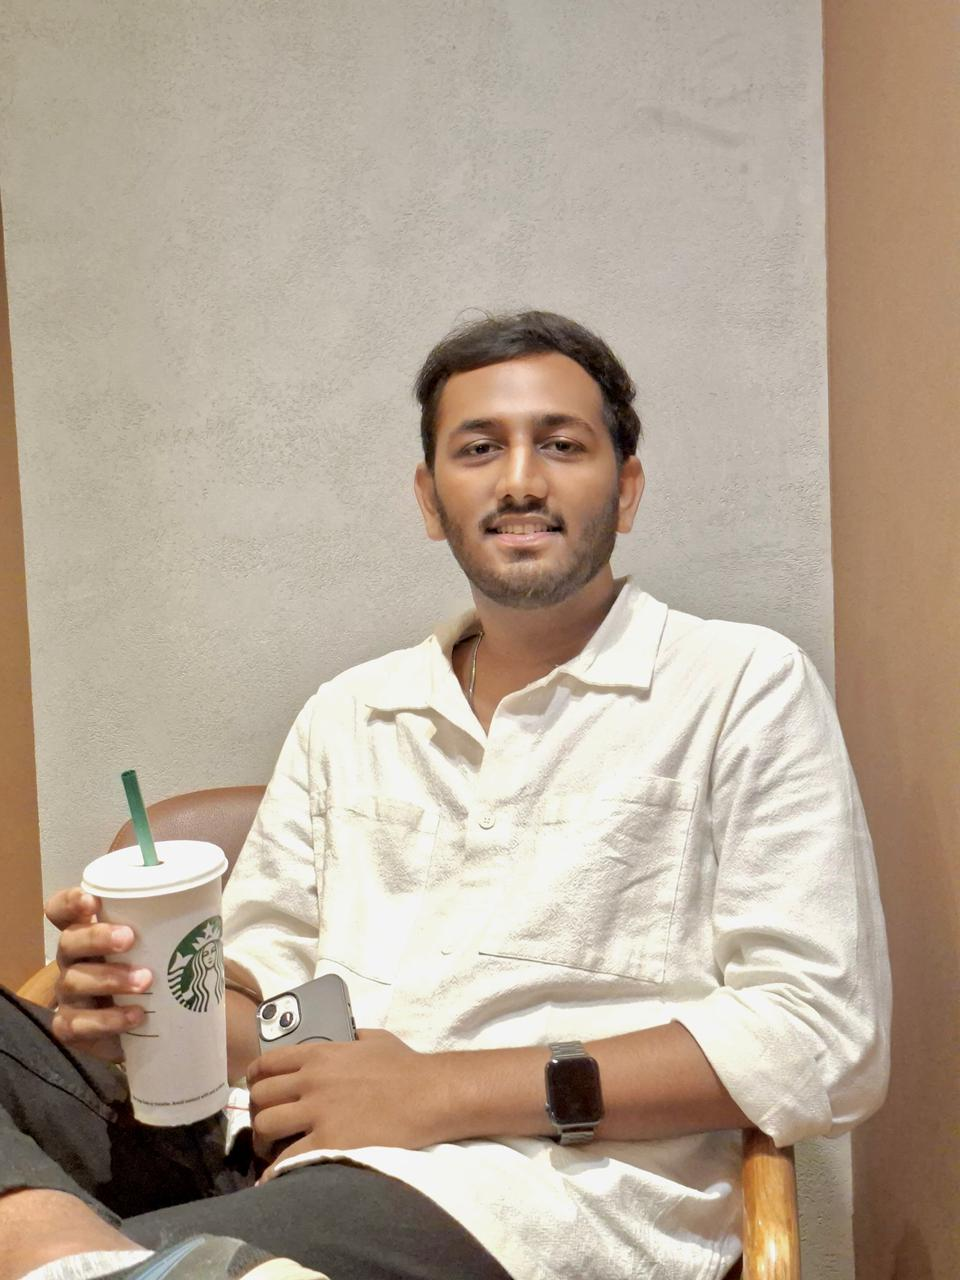
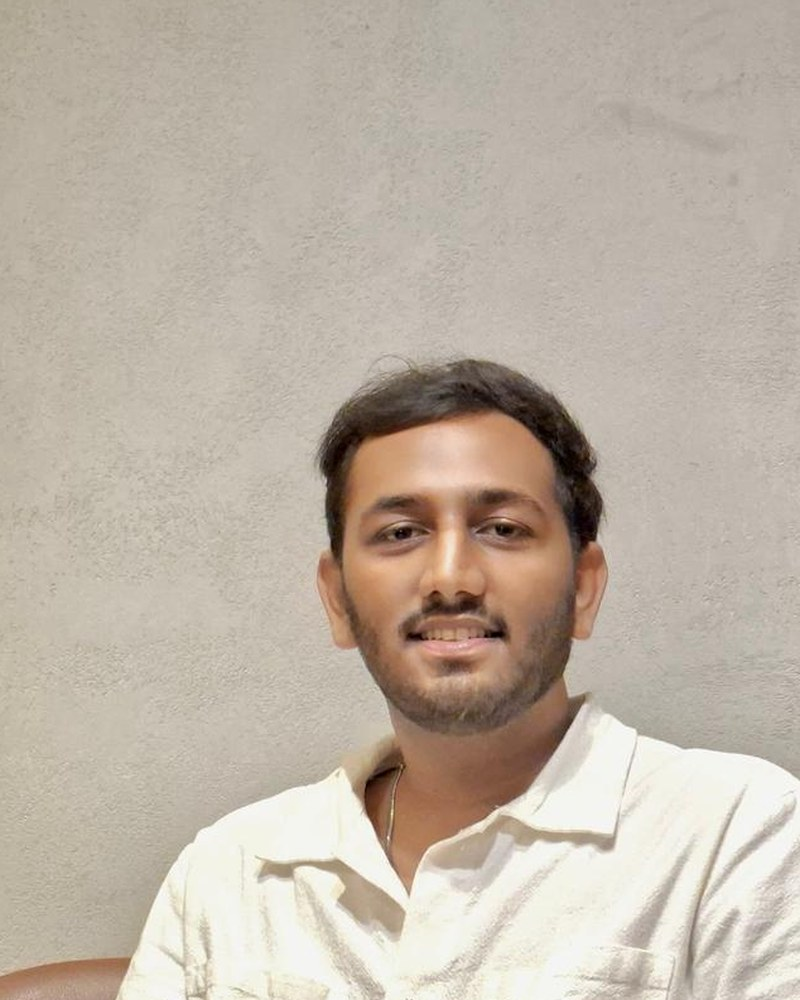
fix: restore framer-motion and refresh portfolio assets
- Switch to framer-motion (remove motion) and force animations even with reduced-motion
- Update GitHub calendar palette, replace internship with projects entry, and crop profile photo
- Remove unused assets and dead import

diff --git a/app/utils/lazy-ui.tsx b/app/utils/lazy-ui.tsx
@@ -1,25 +1,27 @@
 "use client"
 
-import * as motion from "motion/react-m"
-import { LazyMotion, domAnimation } from "motion/react"
+import type { ReactNode } from "react"
+import { LazyMotion, MotionConfig, domAnimation, m } from "framer-motion"
 
-export const MotionWrapper = ({ children }: { children: React.ReactNode }) => {
+export const MotionWrapper = ({ children }: { children: ReactNode }) => {
   return (
-    <LazyMotion strict features={domAnimation}>
-      {children}
-    </LazyMotion>
+    <MotionConfig reducedMotion="never">
+      <LazyMotion strict features={domAnimation}>
+        {children}
+      </LazyMotion>
+    </MotionConfig>
   )
 }
 
-export const MotionDiv = motion.div
-export const MotionSpan = motion.span
-export const MotionH2 = motion.h2
-export const MotionArticle = motion.article
-export const MotionLi = motion.li
-export const MotionUl = motion.ul
-export const MotionCircle = motion.circle
-export const MotionSvg = motion.svg
-export const MotionPath = motion.path
-export const MotionH1 = motion.h1
-export const MotionP = motion.p
-export const MotionButton = motion.button
+export const MotionDiv = m.div
+export const MotionSpan = m.span
+export const MotionH2 = m.h2
+export const MotionArticle = m.article
+export const MotionLi = m.li
+export const MotionUl = m.ul
+export const MotionCircle = m.circle
+export const MotionSvg = m.svg
+export const MotionPath = m.path
+export const MotionH1 = m.h1
+export const MotionP = m.p
+export const MotionButton = m.button

diff --git a/app/components/DotCursor.tsx b/app/components/DotCursor.tsx
@@ -1,7 +1,7 @@
 // app/_components/DotCursor.tsx
 "use client"
 import { useEffect, useRef } from "react"
-import { frame, useSpring } from "motion/react"
+import { useSpring } from "framer-motion"
 import { MotionDiv, MotionSpan } from "../utils/lazy-ui"
 
 const BASE_W = 20
@@ -25,10 +25,8 @@ export function DotCursor() {
   useEffect(() => {
     const onMove = (ev: PointerEvent) => {
       const { clientX, clientY } = ev
-      frame.read(() => {
-        x.set(clientX)
-        y.set(clientY)
-      })
+      x.set(clientX)
+      y.set(clientY)
 
       const el = (ev.target as Element | null)?.closest?.<HTMLElement>("[data-text]") ?? null
       if (el === lastTargetRef.current) return
@@ -39,11 +37,9 @@ export function DotCursor() {
 
       if (!el || !text) {
         if (span) span.textContent = ""
-        frame.read(() => {
-          w.set(BASE_W)
-          h.set(BASE_H)
-          labelOpacity.set(0)
-        })
+        w.set(BASE_W)
+        h.set(BASE_H)
+        labelOpacity.set(0)
         return
       }
 
@@ -54,23 +50,19 @@ export function DotCursor() {
         const textW = Math.ceil(span.scrollWidth)
         const targetW = Math.min(Math.max(BASE_W, textW + PAD_X * 2), MAX_W)
 
-        frame.read(() => {
-          w.set(targetW)
-          h.set(HOVER_H)
-        })
+        w.set(targetW)
+        h.set(HOVER_H)
         // fade text after width begins expanding
-        frame.update(() => labelOpacity.set(1))
+        labelOpacity.set(1)
       }
     }
 
     const onLeaveWindow = () => {
       lastTargetRef.current = null
       if (labelRef.current) labelRef.current.textContent = ""
-      frame.read(() => {
-        w.set(BASE_W)
-        h.set(BASE_H)
-        labelOpacity.set(0)
-      })
+      w.set(BASE_W)
+      h.set(BASE_H)
+      labelOpacity.set(0)
     }
 
     window.addEventListener("pointermove", onMove, { passive: true })

diff --git a/app/components/EducationSection.tsx b/app/components/EducationSection.tsx
@@ -1,7 +1,7 @@
 "use client"
 
 import { MotionDiv } from "../utils/lazy-ui"
-import type { Variants } from "motion"
+import type { Variants } from "framer-motion"
 import { SectionHeader } from "./SectionHeader"
 import { AnimatedH2 } from "./ui/AnimatedH2"
 
@@ -31,16 +31,17 @@ const timelineData: TimelineItem[] = [
     ),
   },
   {
-    date: "09/2025 — 11/2025",
-    title: "UI/UX Design Internship",
-    institution: "Gradscaler Technologies Pvt. Ltd.",
+    date: "2025 — Present",
+    title: "Open-Source & Personal Projects",
+    institution: "GitHub · Build in public",
     description:
-      "Designed responsive dashboard interfaces, created AWS-related page layouts, and collaborated with dev teams to refine user experiences based on feasibility and feedback.",
+      "Building real projects end-to-end, improving code quality through iteration, and sharing work publicly. Focusing on clean UI, performance, accessibility, and maintainable architecture.",
     type: "certification",
     icon: (
       <svg viewBox="0 0 24 24" fill="none" stroke="currentColor" strokeWidth={1.5} className="h-5 w-5">
-        <rect x="2" y="3" width="20" height="14" rx="2" />
-        <path d="M8 21h8m-4-4v4" />
+        <path d="M16 18 22 12 16 6" />
+        <path d="M8 6 2 12l6 6" />
+        <path d="M14 4 10 20" />
       </svg>
     ),
   },

diff --git a/app/components/ui/CallToActionButton.tsx b/app/components/ui/CallToActionButton.tsx
@@ -1,7 +1,7 @@
 import Image from "next/image"
 import profilePhoto from "@/public/profile.jpeg"
 import clsx from "clsx"
-import type { Variants } from "motion"
+import type { Variants } from "framer-motion"
 import { MotionButton, MotionDiv } from "@/app/utils/lazy-ui"
 import { SITE_NAP } from "@/config/siteConfig"
 import { Icon } from "../Icon"
@@ -68,7 +68,10 @@ export const CallToActionButton = () => {
         variants={buttonVariants}
         className="group bubble-hover-cta active relative z-1 inline-flex w-max items-center gap-2 rounded-full bg-stone-900 px-3 py-2.5 text-base font-medium tracking-tight text-white shadow-md shadow-stone-900/10"
       >
-        <div className="pointer-events-none absolute inset-0.5 -z-1 rounded-full [background-image:url('/assets/framer-noise.png')] [background-size:164px] bg-repeat opacity-8" />
+        <div
+          className="pointer-events-none absolute inset-0.5 -z-1 rounded-full bg-repeat opacity-8 [background-image:radial-gradient(rgba(255,255,255,0.18)_1px,transparent_1px)] [background-size:4px_4px]"
+          aria-hidden="true"
+        />
         <div className="relative flex items-center gap-1">
           {/* Avatar */}
           <div className="relative h-7 w-7 rounded-full">

diff --git a/app/layout.tsx b/app/layout.tsx
@@ -97,7 +97,10 @@ const RootLayout = ({ children }: { children: React.ReactNode }) => {
           <DesktopCursor />
           <ViewTransitions />
           <LazySplashCursor />
-          <div className="custom:mx-auto xxs:mx-3.5 pointer-events-none absolute inset-0 z-1 max-w-6xl [background-image:url('/assets/framer-noise.png')] [background-size:128px] bg-repeat opacity-3 md:mx-5 lg:mx-8" />
+          <div
+            className="custom:mx-auto xxs:mx-3.5 pointer-events-none absolute inset-0 z-1 max-w-6xl bg-repeat opacity-3 md:mx-5 lg:mx-8 [background-image:radial-gradient(rgba(0,0,0,0.35)_1px,transparent_1px)] [background-size:4px_4px]"
+            aria-hidden="true"
+          />
           <div className={`${switzer.variable} font-switzer subpixel-antialiased`}>
             <div className="custom:mx-auto xxs:border-x pointer-events-none absolute inset-0 z-0 mx-3.5 max-w-6xl border-black/15 md:mx-5 lg:mx-8" />
             <BottomBlurOverlay />

diff --git a/app/components/CodingProfile/GitHubStats.tsx b/app/components/CodingProfile/GitHubStats.tsx
@@ -166,9 +166,9 @@ export const GitHubStats = () => {
                                 fontSize={12}
                                 blockSize={12}
                                 blockMargin={4}
-                                style={{ color: "#5c4633" }}
                                 theme={{
-                                    light: ["#f5ebe0", "#e8d5c0", "#d4b896", "#b08968", "#7c5e43"],
+                                    // GitHub's official light palette (keeps it familiar/recognizable)
+                                    light: ["#ebedf0", "#9be9a8", "#40c463", "#30a14e", "#216e39"],
                                     dark: ["#161b22", "#0e4429", "#006d32", "#26a641", "#39d353"],
                                 }}
                             />

diff --git a/app/ui/BeforeAfterSlider.tsx b/app/ui/BeforeAfterSlider.tsx
@@ -1,7 +1,7 @@
 "use client"
 import { useRef, useCallback, memo, useState, useEffect } from "react"
 import { MotionDiv } from "@/app/utils/lazy-ui"
-import { useMotionValue, useSpring, useTransform, useInView } from "motion/react"
+import { useMotionValue, useSpring, useTransform, useInView } from "framer-motion"
 
 interface BeforeAfterProps {
   before: React.ReactNode
@@ -124,7 +124,7 @@ export const BeforeAfterSlider: React.FC<BeforeAfterProps> = memo(
           springPosition.set(initialPosition)
         }, 600)
       }
-    }, [isInView])
+    }, [initialPosition, isInView, springPosition])
 
     return (
       <div

diff --git a/app/ui/TiltedWrapper.tsx b/app/ui/TiltedWrapper.tsx
@@ -1,7 +1,7 @@
 "use client"
-import type { SpringOptions } from "motion/react"
+import type { SpringOptions } from "framer-motion"
 import { useRef, useCallback } from "react"
-import { useMotionValue, useSpring } from "motion/react"
+import { useMotionValue, useSpring } from "framer-motion"
 import { MotionDiv } from "../utils/lazy-ui"
 
 export interface TiltedWrapperProps {

diff --git a/app/components/TopBar/MobileMenuButton.tsx b/app/components/TopBar/MobileMenuButton.tsx
@@ -1,7 +1,6 @@
 "use client"
 import clsx from "clsx"
-import { useMotionValueEvent } from "motion/react"
-import { useScroll } from "motion/react"
+import { useMotionValueEvent, useScroll } from "framer-motion"
 import { useIsMobile, useTouch } from "../../hooks/useMediaQuery"
 import { DotMenuIcon } from "./DotMenuIcon"
 import { useUI } from "@react-zero-ui/core"

diff --git a/app/components/AnimatedText.tsx b/app/components/AnimatedText.tsx
@@ -1,5 +1,5 @@
 import clsx from "clsx"
-import type { Variants } from "motion"
+import type { Variants } from "framer-motion"
 import { MotionH2, MotionSpan } from "../utils/lazy-ui"
 
 interface Props {

diff --git a/app/components/ProcessSection.tsx b/app/components/ProcessSection.tsx
@@ -1,7 +1,7 @@
 "use client"
 
 import { MotionDiv } from "../utils/lazy-ui"
-import type { Variants } from "motion"
+import type { Variants } from "framer-motion"
 import { SectionHeader } from "./SectionHeader"
 
 const steps = [

diff --git a/app/components/ProjectCard/AnimatedCard.tsx b/app/components/ProjectCard/AnimatedCard.tsx
@@ -1,5 +1,5 @@
 "use client"
-import { MotionValue } from "motion/react"
+import type { MotionValue } from "framer-motion"
 import { StaticImageData } from "next/image"
 import { Card } from "./Card"
 import clsx from "clsx"